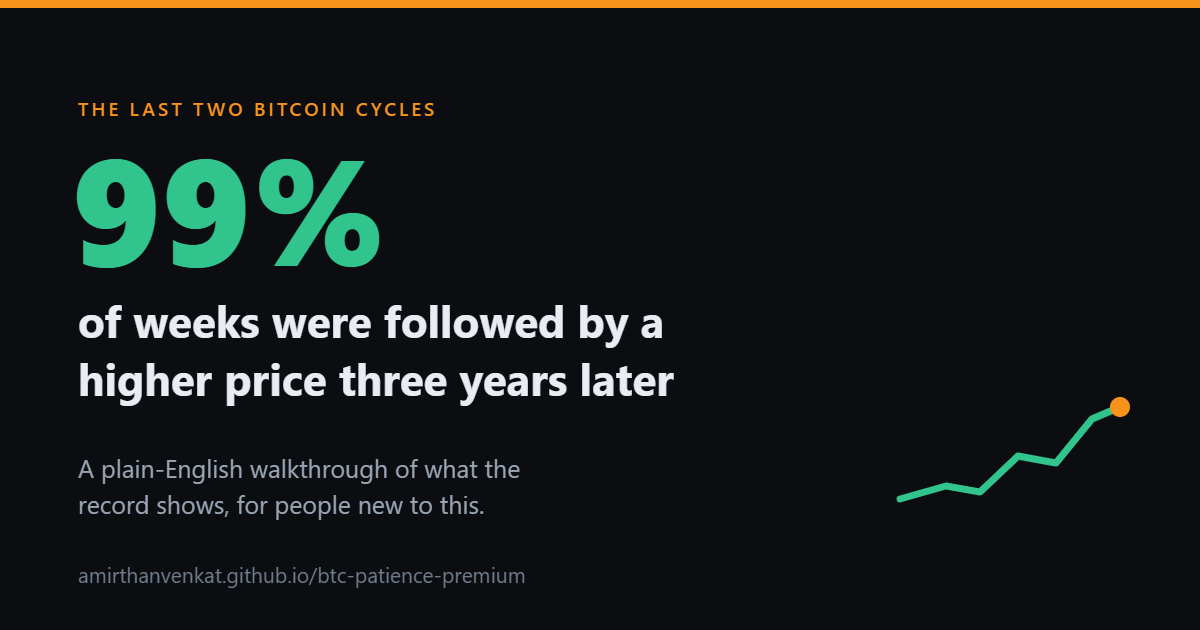
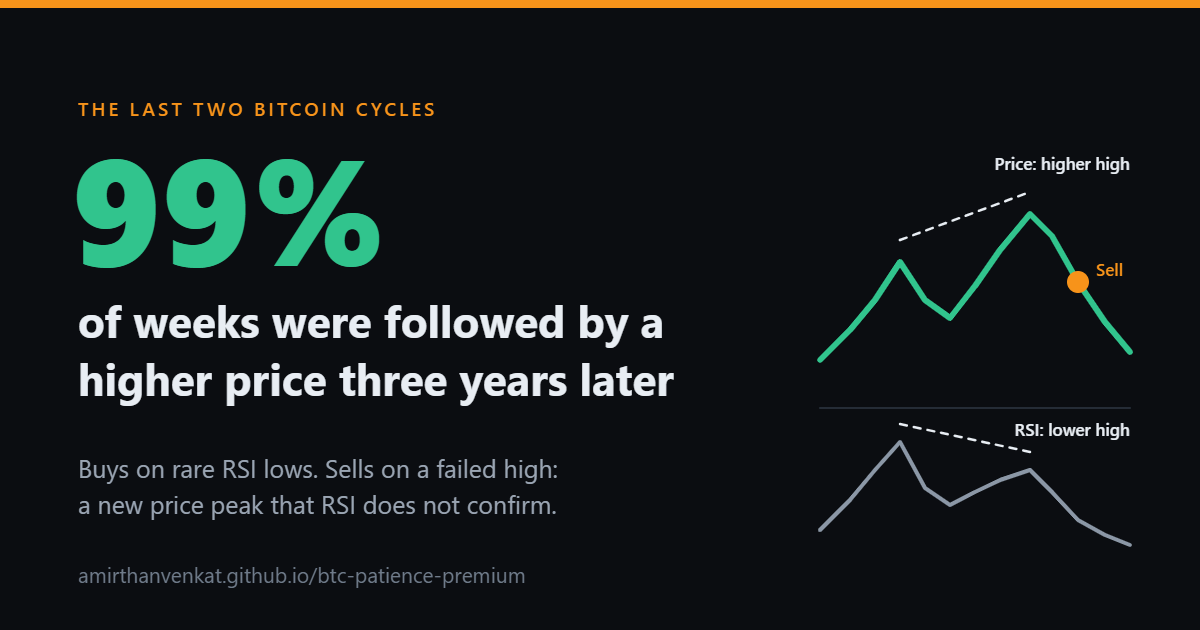
Redraw the social card around the failed-high sell rule
The subtitle now states the buy and sell rules, and the right side shows a
failed high: price making a higher high while RSI makes a lower one, with
the sale marked after the peak.

diff --git a/index.html b/index.html
@@ -17,7 +17,7 @@
 <meta property="og:image" content="https://amirthanvenkat.github.io/btc-patience-premium/social-card.png">
 <meta property="og:image:width" content="1200">
 <meta property="og:image:height" content="630">
-<meta property="og:image:alt" content="Bitcoin: what the last two cycles actually show. 99 percent of weeks were followed by a higher price three years later.">
+<meta property="og:image:alt" content="Bitcoin: what the last two cycles actually show. 99 percent of weeks were followed by a higher price three years later. A diagram shows the sell rule: price makes a higher high while RSI makes a lower high.">
 <meta name="twitter:card" content="summary_large_image">
 <meta name="twitter:title" content="Bitcoin: what the last two cycles actually show">
 <meta name="twitter:description" content="Across every week since the December 2017 peak, the price was higher three years later 99% of the time. Computed live in your browser.">
